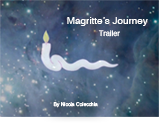
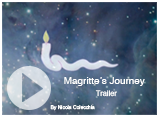
add english version and new bg for media page

diff --git a/en/media.html b/en/media.html
@@ -22,39 +22,20 @@
     </div>
 <div class="wrap">
     <a id="back" href="team.html">back</a><a id="next" href="contact.html">next</a>
-    <div class="container" id="download">
-      <h1 style="margin-left:58px;">Download</h1>
-          <pre>
-      <span style="color: #f6ff00;">La Rottura della Simmetria nella Comunicazione Visiva</span>
-                <span style="font-size:12px; color: #00ff06;">di Nicola Colecchia e Filippo Zaccardi </span>
-                   <span style="font-size:12px; color: #00ff06;">FrancoAngeli, Milano (2000)</span>
-
-              <span style="color: #f6ff00;">Magritte nella Rete: Approccio Neurale al Linguaggio Pittorico, </span>
-                              <span style="font-size:12px; color: #00ff06;">di Nicola Colecchia </span>
-                               <span style="font-size:12px; color: #00ff06;">FrancoAngeli, Milano (2004)</span>
-         
-                      <span style="color: #f6ff00;">The Attractive Power of the Work of Art</span>
-                            <span style="font-size:12px; color: #00ff06;">di Nicola Colecchia</span>
-                                         <span style="font-size:12px; color: #00ff06;">Amazon.it (2014)</span>
-
-                             <span style="color: #f6ff00;">Cutting-edge Exhibition Systems</span>
-                                              <span style="font-size:12px; color: #00ff06;">di Nicola Colecchia</span>
-                                                  <span style="font-size:12px; color: #00ff06;">Amazon.it (2014)</span>
-
-                                      <span style="color: #f6ff00;">The Mysterious Smile of Mona Lisa</span>
-                                                        <span style="font-size:12px; color: #00ff06;">di Nicola Colecchia</span>
-                                                            <span style="font-size:12px; color: #00ff06;">Amazon.it (2015)</span>
-
-                                               <span style="color: #f6ff00;">Anatomy of a Painting. Magritte's Meditation</span>
-                                                                  <span style="font-size:12px; color: #00ff06;">di Nicola Colecchia</span>
-                                                                      <span style="font-size:12px; color: #00ff06;">Amazon.it (2015)</span>
-
-                                                       <span style="color: #f6ff00;">Magritte's Cloud and Vertigo</span>
-                                                                                    <span style="font-size:12px; color: #00ff06;">di Nicola Colecchia</span>
-                                                                                       <span style="font-size:12px; color: #00ff06;">Amazon.it (2015)</span>
-                                                
-                  
-          </pre>  
+    <div class="container media" id="download">
+      <h1 style="margin-left:98px;position: relative;top: -35px;">Media</h1>
+      <div style="position: relative">
+        <div style="position:absolute;top: -25px;left: -4px;"><a href="https://www.youtube.com/watch?v=bMTAB_2hxnY"><img src="/images/interview.png" alt=""></a></div>
+        <div style="position:absolute;top: -74px;left: 235px;"><a href="https://www.youtube.com/watch?v=sRn95kUvrFM"><img src="/images/magritte-journey.png" alt=""></a></div>
+      </div>
+      <div class="social">
+        <a href="https://plus.google.com/u/1/b/105429641201424654452/105429641201424654452/posts/p/pub" class="social-icon gp" target="_blank"></a>
+        <a href="https://www.facebook.com/pages/Synapticart/1562186430694063" class="social-icon fb" target="_blank"></a>
+        <a href="https://twitter.com/synapticart" class="social-icon tw" target="_blank"></a>
+        <a href="http://synapticart.tumblr.com" class="social-icon tb" target="_blank"></a>
+        <a href="https://www.pinterest.com/synapticart/" class="social-icon pi" target="_blank"></a>
+      </div>
+    </div>
       <div class="social">
         <a href="https://plus.google.com/u/1/b/105429641201424654452/105429641201424654452/posts/p/pub" class="social-icon gp" target="_blank"></a>
         <a href="https://www.facebook.com/pages/Synapticart/1562186430694063" class="social-icon fb" target="_blank"></a>

diff --git a/media.html b/media.html
@@ -23,18 +23,10 @@
 <div class="wrap">
     <a id="back" href="team.html">back</a><a id="next" href="contact.html">next</a>
     <div class="container media" id="download">
-      <h1 style="margin-left:98px;">Media</h1>
+      <h1 style="margin-left:98px;position: relative;top: -35px;">Media</h1>
       <div style="position: relative">
-        <div style="position:absolute;top: 50px;left: 10px;"><a href="https://www.youtube.com/watch?v=bMTAB_2hxnY"><img src="images/interview.png" alt=""></a></div>
-        <div style="position:absolute;top: 0px;left: 230px;"><a href="https://www.youtube.com/watch?v=sRn95kUvrFM"><img src="images/magritte-journey.png" alt=""></a></div>
-        <div style="position:absolute;top: 60px;left: 430px;"><img src="images/ciclo-conferenze.png" alt=""></div>
-        <div style="position:absolute;top: 131px;left: 270px;"><img src="images/anatomyofpainting.png" alt=""></div>
-        <div style="position:absolute;top: 190px;left: 70px;"><img src="images/monalisasmile.png" alt=""></div>
-        <div style="position:absolute;top: 175px;left: -80px;"><img src="images/rottura.png" alt=""></div>
-        <div style="position:absolute;top: 330px;left: 240px;"><img src="images/magritte.png" alt=""></div>
-        <div style="position:absolute;top: 434px;left: 385px;"><img src="images/fashonlap.png" alt=""></div>
-        <div style="position:absolute;top: 245px;left: 410px;"><img src="images/simbolismo.png" alt=""></div>
-        <div style="position:absolute;top: 300px;left: 545px;"><img src="images/exibitionsystem.png" alt=""></div>
+        <div style="position:absolute;top: -25px;left: -4px;"><a href="https://www.youtube.com/watch?v=bMTAB_2hxnY"><img src="images/interview.png" alt=""></a></div>
+        <div style="position:absolute;top: -74px;left: 235px;"><a href="https://www.youtube.com/watch?v=sRn95kUvrFM"><img src="images/magritte-journey.png" alt=""></a></div>
       </div>
       <div class="social">
         <a href="https://plus.google.com/u/1/b/105429641201424654452/105429641201424654452/posts/p/pub" class="social-icon gp" target="_blank"></a>
